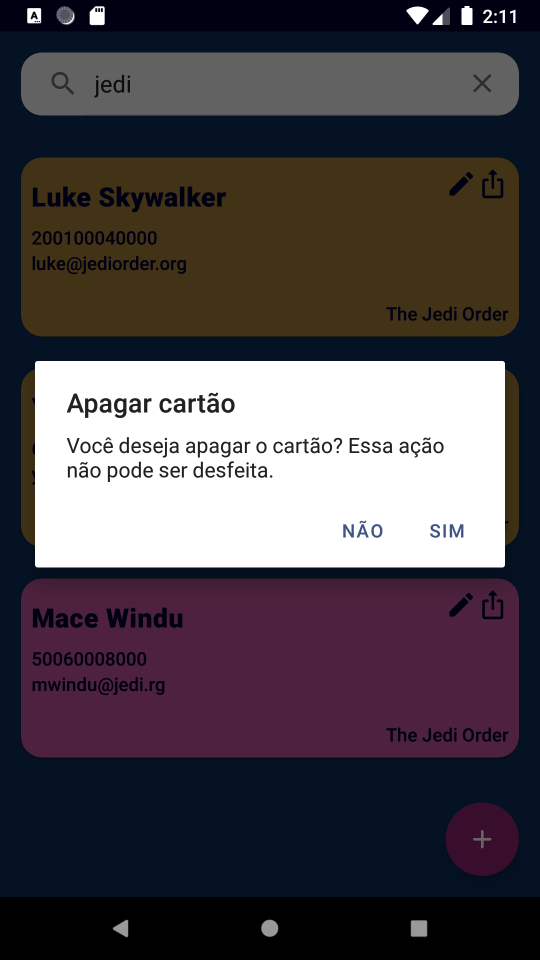
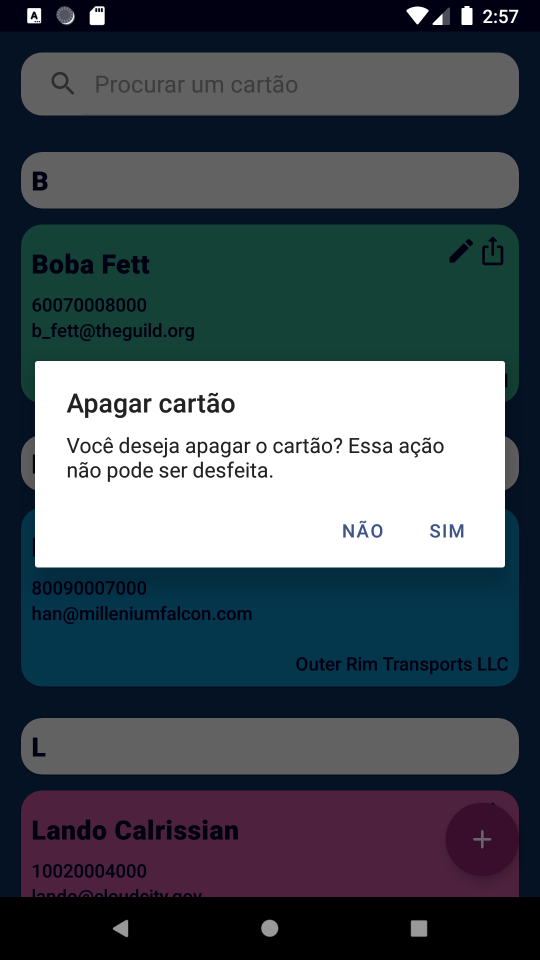
README e screenshots atualizados

diff --git a/app/src/main/java/br/com/chicorialabs/businesscard/ui/adapter/DataItemViewHolder.kt b/app/src/main/java/br/com/chicorialabs/businesscard/ui/adapter/DataItemViewHolder.kt
@@ -63,6 +63,7 @@ sealed class DataItemViewHolder(open val binding: ViewBinding) :
         fun bind(item: DataItem.Header) {
             with(binding) {
                 header = item
+                executePendingBindings()
             }
         }
 

diff --git a/README.md b/README.md
@@ -6,6 +6,8 @@ Além dos conceitos desenvolvidos nas aulas, o app emprega as seguintes tecnolog
 
 - **CRUD completo**. O app suporta as quatro operações: criar, ler, atualizar e deletar itens. 
 
+- **Agrupamento dos contatos.** Os contatos são agrupados em ordem alfabética pela inicial do primeiro nome. Essa *feature* foi implementado por meio do uso de diferentes ViewHolders na mesma RecyclerView.
+
 - **Injeção de dependências por meio da biblioteca Koin.** Adotei essa solução porque tenho bastante familiaridade com a ferramenta e acredito que deixa o código mais enxuto, além de simplificar a injeção de dependências nos ViewModels e outros componentes.
 
 - **Arquitetura MVVM baseada em Fragments**. Optei por organizar o app em Fragments com ViewModel; a MainActivity tem somente a responsabilidade de manter o NavHostController. Adotei essa solução por ser uma arquitetura mais atual.
@@ -32,7 +34,9 @@ Além dos conceitos desenvolvidos nas aulas, o app emprega as seguintes tecnolog
 
 - **Clean Architecture**. Adoção de princípios da arquitetura limpa: classes de dados organizadas em um pacote *domain*, camada de infraestrutura (*database*) acessada por meio de *use cases*, entre outros.
 
-- **Teste unitários**. Uso pontual de testes automatizados.
+- **Sealed classes**. Adoção de classes seladas para os ViewHolders e Either (objeto de validação da entidade).
+
+- **Teste unitários**. Uso pontual de testes automatizados e implementação de algumas features por meio de **TDD - Test Driven Development**.
 
 - **Versionamento segundo princípios de GitFlow.** 
 
@@ -41,6 +45,11 @@ Além dos conceitos desenvolvidos nas aulas, o app emprega as seguintes tecnolog
 
 
 ## Histórico de versões
+
+#### Versão 0.3
+
+- Lista de contatos ordenada alfabeticamente
+- Contados agrupados pela inicial do primeiro nome
 
 #### Versão 0.21
 
